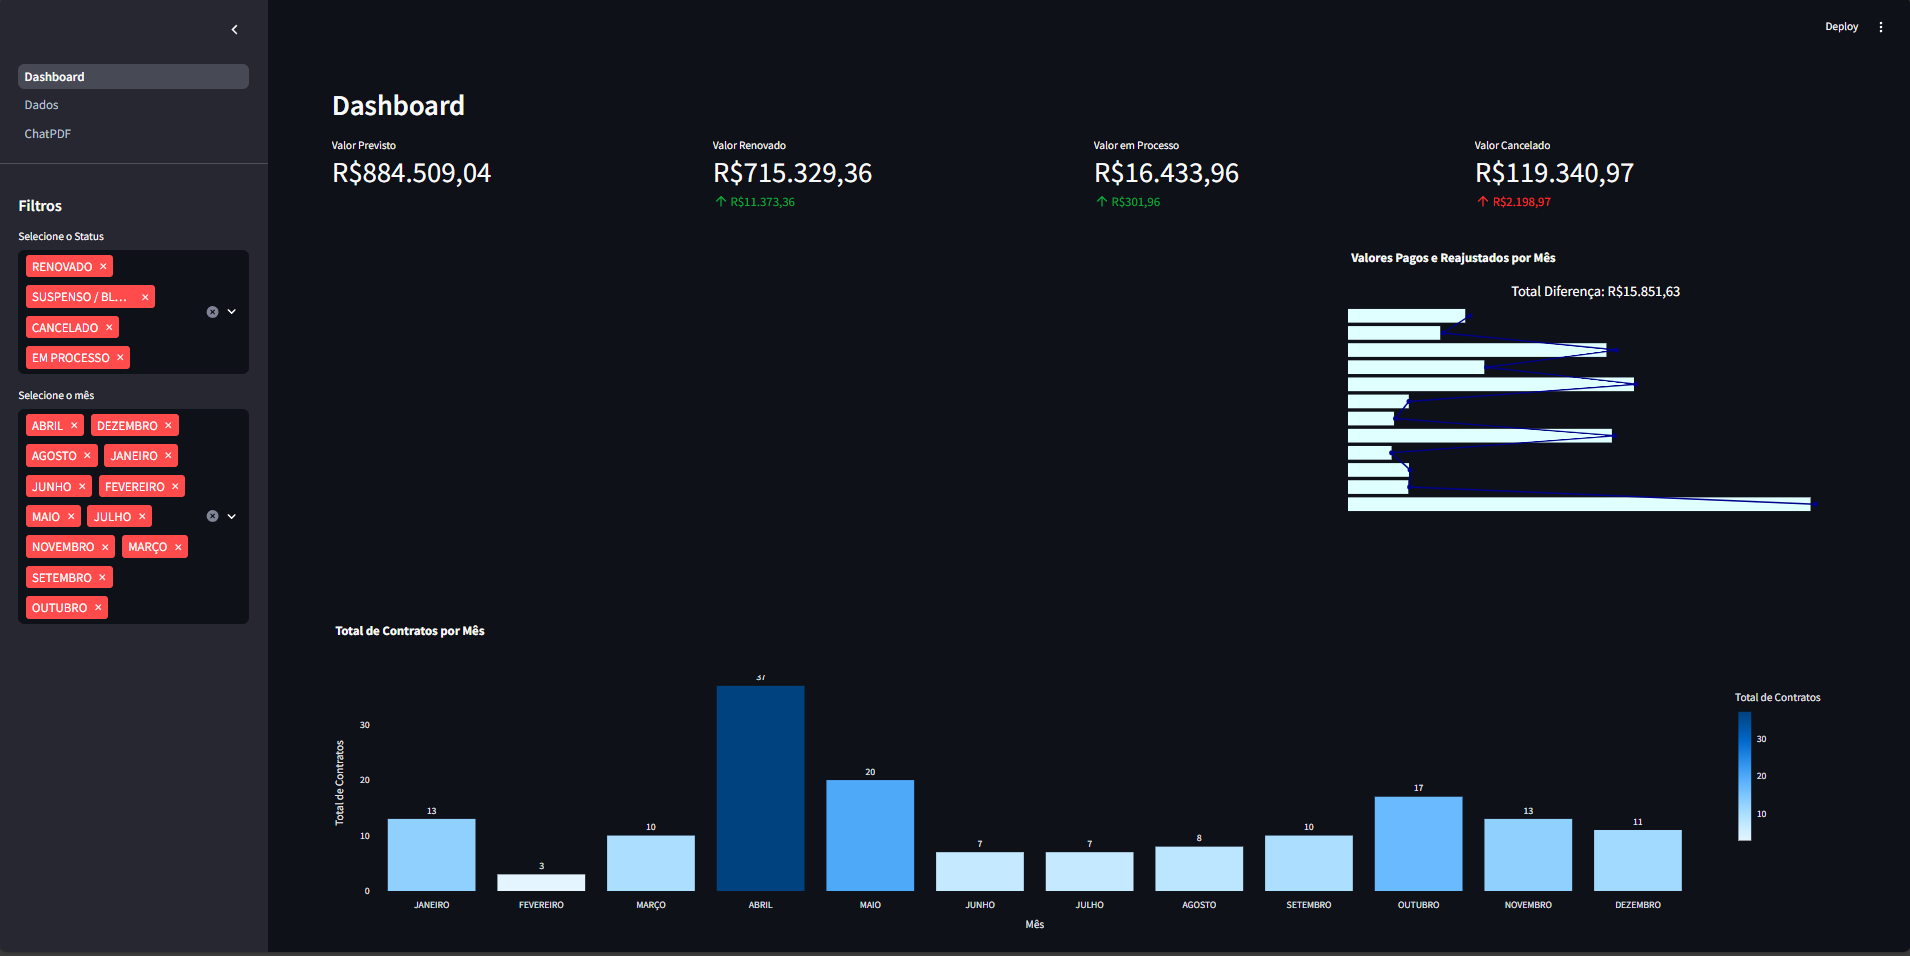
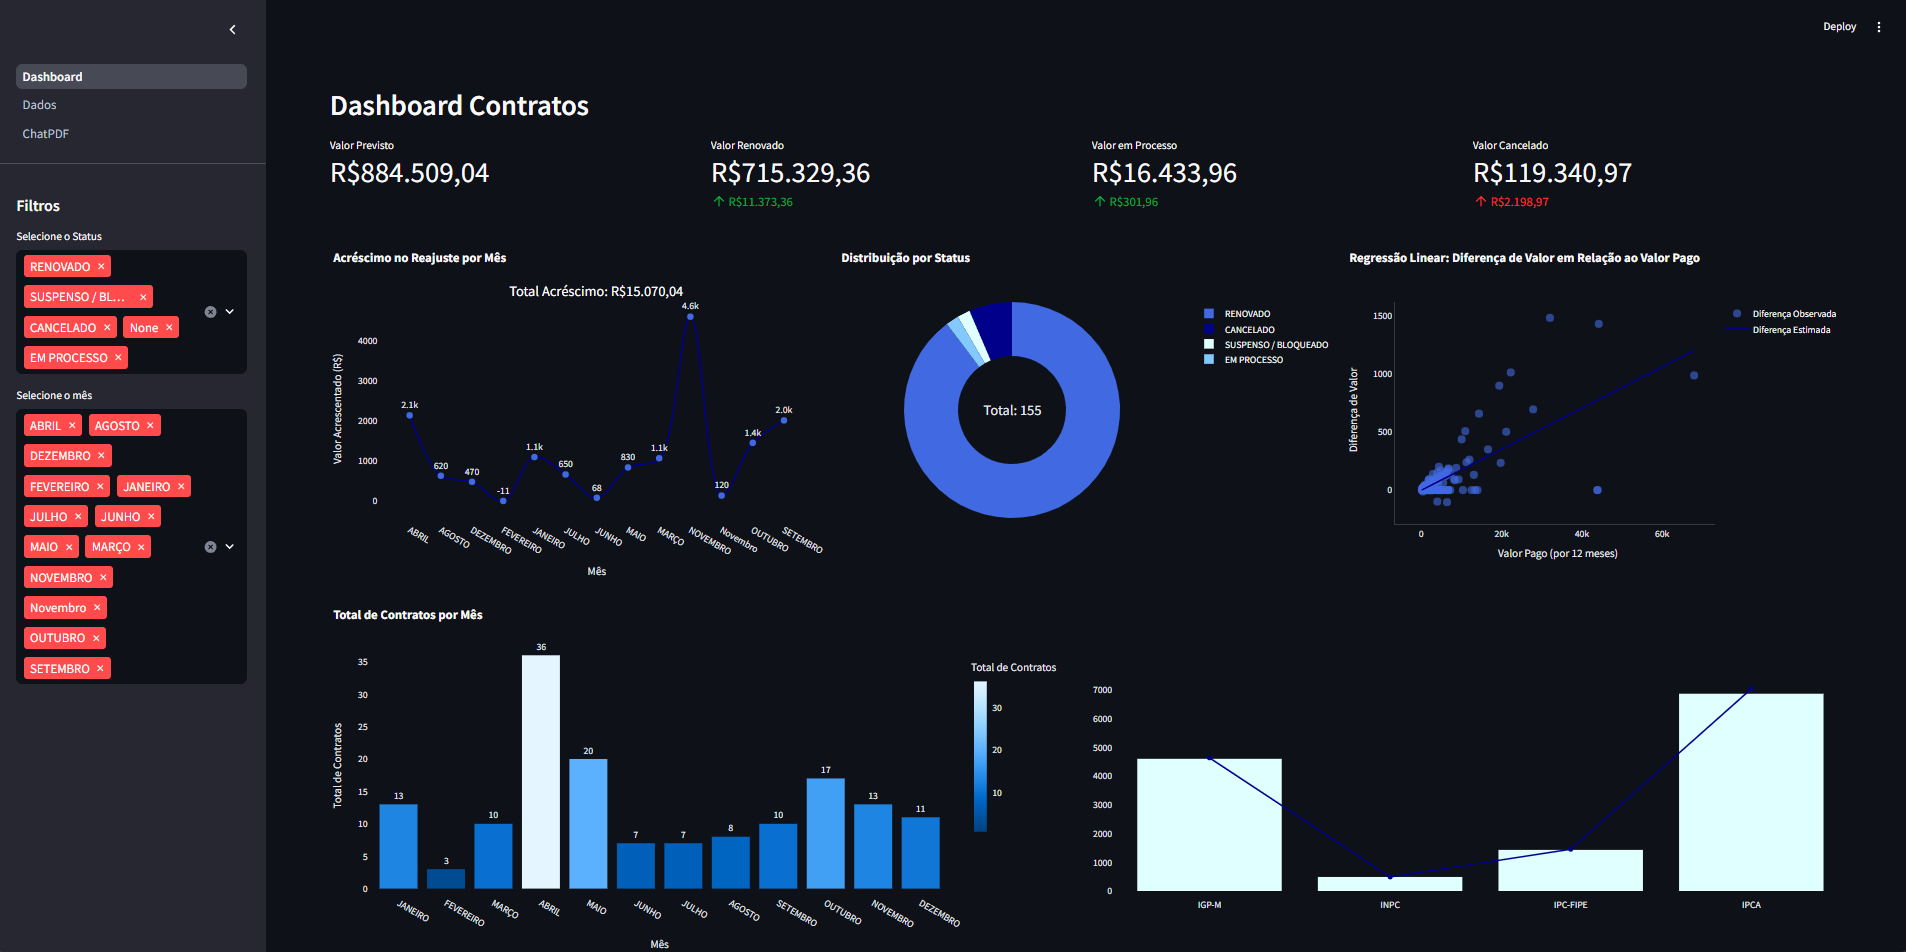
tela dashboards finalizada

diff --git a/Work-Dash/Dashboard.py b/Work-Dash/Dashboard.py
@@ -2,28 +2,30 @@ import streamlit as st
 import pandas as pd
 import plotly.graph_objects as go
 import plotly.express as px
+from sklearn.linear_model import LinearRegression
+import numpy as np
 
 st.set_page_config(page_title="Gestão de Contratos", layout="wide")
 
 @st.cache_data
 def load_data():
-    df = pd.read_excel("planilhas\dados_estruturados.xlsx")
+    df = pd.read_excel("planilhas/dados_estruturados.xlsx")
     return df
 
 df = load_data()
 
 def process_data(df):
     grouped_df = df.groupby('CONTRATO Nº').agg({
-        'EMPRESA': 'first',  
-        'SISTEMA': 'first',  
-        'MÊS': 'first',  
+        'EMPRESA': 'first',
+        'SISTEMA': 'first',
+        'MÊS': 'first',
         'ÍNDICE': 'first',
-        'VALOR PAGO\n(POR 12 MESES)': 'sum',  
-        'VALOR REAJUSTADO\n(POR 12 MESES)': 'sum',  
-        'PEDIDO/ORDEM DE COMPRAS': 'first',  
-        'STATUS / AÇÃO': 'first',  
-        'DATA DA AÇÃO': 'first',  
-        'DIFERENÇA DE VALOR DE CONTRATO': 'sum' 
+        'VALOR PAGO\n(POR 12 MESES)': 'sum',
+        'VALOR REAJUSTADO\n(POR 12 MESES)': 'sum',
+        'PEDIDO/ORDEM DE COMPRAS': 'first',
+        'STATUS / AÇÃO': 'first',
+        'DATA DA AÇÃO': 'first',
+        'DIFERENÇA DE VALOR DE CONTRATO': 'sum'
     }).reset_index()
 
     value_columns = [
@@ -40,7 +42,7 @@ def process_data(df):
 grouped_df = process_data(df)
 
 #Dashboard
-st.header("Dashboard")
+st.header("Dashboard Contratos")
 
 # Função para formatar valores no formato brasileiro
 def format_currency(value):
@@ -78,8 +80,8 @@ with col3:
 
 with col4:
     st.metric(
-        label="Valor Cancelado", 
-        value=format_currency(valor_cancelado), 
+        label="Valor Cancelado",
+        value=format_currency(valor_cancelado),
         delta=format_currency(diferenca_cancelado),
         delta_color="inverse"
     )
@@ -89,116 +91,200 @@ with st.sidebar:
     st.header("Filtros")
     
     status = grouped_df['STATUS / AÇÃO'].unique()
-    selected_status = st.multiselect("Selecione o Status", options=status, default=status)  
+    selected_status = st.multiselect("Selecione o Status", options=status, default=status)
     
     meses = sorted(grouped_df['MÊS'].unique())
     selected_months = st.multiselect("Selecione o mês", options=meses, default=meses)
 
 filtered_df = grouped_df[
-    (grouped_df['STATUS / AÇÃO'].isin(selected_status)) &  
+    (grouped_df['STATUS / AÇÃO'].isin(selected_status)) &
     (grouped_df['MÊS'].isin(selected_months))
 ]
 
-# Função para gerar gráficos
-def plot_value_comparison(df):
-    monthly_summary = df.groupby('MÊS').agg({
-        'VALOR PAGO\n(POR 12 MESES)': 'sum',
-        'VALOR REAJUSTADO\n(POR 12 MESES)': 'sum',
-        'DIFERENÇA DE VALOR DE CONTRATO': 'sum'
-    }).reset_index()
+def plot_value_acrescentado(df):
+    # Calculando a diferença (acréscimo no reajuste)
+    df['ACRESCIMO_REAJUSTE'] = df['VALOR REAJUSTADO\n(POR 12 MESES)'] - df['VALOR PAGO\n(POR 12 MESES)']
+    
+    # Agrupando por MÊS para calcular a soma do acréscimo por mês
+    monthly_acrescimento = df.groupby('MÊS').agg({'ACRESCIMO_REAJUSTE': 'sum'}).reset_index()
 
+    # Criando o gráfico de linha suave
     fig = go.Figure()
 
-    # Adicionando barras para VALOR PAGO
-    fig.add_trace(go.Bar(
-        y=monthly_summary['MÊS'],
-        x=monthly_summary['VALOR PAGO\n(POR 12 MESES)'],
-        name='Valor Pago',
-        marker_color='lightcyan',
-        orientation='h'
-    ))
-
-    # Adicionando linha para VALOR REAJUSTADO
+    # Adicionando linha suave para o acréscimo
     fig.add_trace(go.Scatter(
-        y=monthly_summary['MÊS'],
-        x=monthly_summary['VALOR REAJUSTADO\n(POR 12 MESES)'],
-        name='Valor Reajustado',
-        mode='lines+markers',
-        line=dict(color='darkblue', width=2),
+        x=monthly_acrescimento['MÊS'],
+        y=monthly_acrescimento['ACRESCIMO_REAJUSTE'],
+        mode='lines+markers+text',
+        line=dict(color='darkblue', width=2, shape='spline'),
+        text=monthly_acrescimento['ACRESCIMO_REAJUSTE'],
+        texttemplate='%{text:.2s}',  # Exibindo os valores em formato compacto (ex: R$ 1,2K)
+        textposition='top center',
+        marker=dict(symbol='circle', size=8, color='royalblue')
     ))
 
-    total_reajustado = monthly_summary['VALOR REAJUSTADO\n(POR 12 MESES)'].sum()
-    total_diferenca = monthly_summary['DIFERENÇA DE VALOR DE CONTRATO'].sum()
+    # Total de acrescimento
+    total_acrescimo = monthly_acrescimento['ACRESCIMO_REAJUSTE'].sum()
 
-    # Adicionando anotação para mostrar os valores totais no topo do gráfico
+    # Adicionando anotação para mostrar o total de acréscimo
     fig.add_annotation(
-        text=f"Total Diferença: {format_currency(total_diferenca)}",
+        text=f"Total Acréscimo: {format_currency(total_acrescimo)}",
         xref="paper", yref="paper",
         x=0.5, y=1.1, showarrow=False,
         font=dict(size=18, color="white")
     )
 
+    # Ajustando o layout
     fig.update_layout(
-        title='Valores Pagos e Reajustados por Mês',
-        xaxis_title=None,
-        yaxis_title=None,
+        title="Acréscimo no Reajuste por Mês",
+        xaxis_title='Mês',
+        yaxis_title='Valor Acrescentado (R$)',
         xaxis_tickformat='R$,.2f',
-        barmode='group',
         showlegend=False,
-        xaxis=dict(showline=False, showgrid=False, zeroline=False, visible=False),
-        yaxis=dict(showline=False, showgrid=False, zeroline=False, visible=False)
+        plot_bgcolor='rgba(0,0,0,0)',
+        paper_bgcolor='rgba(0,0,0,0)',
+        xaxis=dict(showline=False, showgrid=False, zeroline=False),
+        yaxis=dict(showline=False, showgrid=False, zeroline=False)
+    )
+
+    return fig
+
+# Função para análise do índice de reajuste
+def plot_index_analysis(df):
+    index_summary = df.groupby('ÍNDICE').agg({
+        'VALOR PAGO\n(POR 12 MESES)': 'mean',
+        'VALOR REAJUSTADO\n(POR 12 MESES)': 'mean'
+    }).reset_index()
+
+    fig = go.Figure()
+
+    fig.add_trace(go.Bar(
+        x=index_summary['ÍNDICE'],
+        y=index_summary['VALOR PAGO\n(POR 12 MESES)'],
+        name='Valor Pago',
+        marker_color='lightcyan'
+    ))
+
+    fig.add_trace(go.Scatter(
+        x=index_summary['ÍNDICE'],
+        y=index_summary['VALOR REAJUSTADO\n(POR 12 MESES)'],
+        name='Valor Reajustado',
+        mode='lines+markers',
+        line=dict(color='darkblue', width=2),
+    ))
+
+    fig.update_layout(
+        xaxis=dict(showline=False, showgrid=False, zeroline=False),
+        yaxis=dict(showline=False, showgrid=False, zeroline=False),
+        plot_bgcolor='rgba(0,0,0,0)',
+        paper_bgcolor='rgba(0,0,0,0)',
+        showlegend=False
     )
     
     return fig
 
+
 def plot_contracts_per_month(df):
     contracts_per_month = df.groupby('MÊS').size().reset_index(name='TOTAL DE CONTRATOS')
 
-    months_order = ['JANEIRO', 'FEVEREIRO', 'MARÇO', 'ABRIL', 'MAIO', 'JUNHO', 
+    months_order = ['JANEIRO', 'FEVEREIRO', 'MARÇO', 'ABRIL', 'MAIO', 'JUNHO',
                     'JULHO', 'AGOSTO', 'SETEMBRO', 'OUTUBRO', 'NOVEMBRO', 'DEZEMBRO']
     contracts_per_month['MÊS'] = pd.Categorical(contracts_per_month['MÊS'], categories=months_order, ordered=True)
     contracts_per_month = contracts_per_month.sort_values('MÊS')
 
-    fig = px.bar(contracts_per_month, x='MÊS', y='TOTAL DE CONTRATOS', 
-                 title='Total de Contratos por Mês',
+    fig = px.bar(contracts_per_month, x='MÊS', y='TOTAL DE CONTRATOS',
                  labels={'TOTAL DE CONTRATOS': 'Total de Contratos', 'MÊS': 'Mês'},
                  color='TOTAL DE CONTRATOS',
-                 color_discrete_map={'JANEIRO':'lightcyan',
-                                     'FEVEREIRO':'cyan',
-                                     'MARÇO':'royalblue',
-                                     'ABRIL':'darkblue',
-                                     'MAIO':'lightcyan',
-                                     'JUNHO':'cyan',
-                                     'JULHO':'royalblue',
-                                     'AGOSTO':'darkblue',
-                                     'SETEMBRO':'lightcyan',
-                                     'OUTUBRO':'cyan',
-                                     'NOVEMBRO':'royalblue',
-                                     'DEZEMBRO':'darkblue'})
+                 color_discrete_sequence=['royalblue'])
 
     fig.update_traces(texttemplate='%{y}', textposition='outside')
 
     fig.update_layout(
+        title="Total de Contratos por Mês",
         xaxis=dict(showline=False, showgrid=False, zeroline=False),
-        yaxis=dict(showline=False, showgrid=False, zeroline=False, title='Total de Contratos'),
+        yaxis=dict(showline=False, showgrid=False, zeroline=False),
         plot_bgcolor='rgba(0,0,0,0)',
         paper_bgcolor='rgba(0,0,0,0)',
+        showlegend=False
     )
 
     return fig
 
-# Criar colunas
+def plot_pie_chart(df):
+    status_counts = df['STATUS / AÇÃO'].value_counts().reset_index()
+    status_counts.columns = ['STATUS / AÇÃO', 'COUNT']
 
-col1, col2, col3 = st.columns(3)
+    fig = go.Figure(go.Pie(
+        labels=status_counts['STATUS / AÇÃO'],
+        values=status_counts['COUNT'],
+        hole=0.5,
+        marker=dict(colors=['royalblue', 'darkblue', 'lightcyan']),
+        textinfo='none'
+    ))
+
+    fig.update_layout(
+        title="Distribuição por Status",
+        annotations=[dict(text=f'Total: {status_counts["COUNT"].sum()}', x=0.5, y=0.5, font_size=18, showarrow=False)]
+    )
+
+    return fig
+
+# Função para plotar gráfico de dispersão com linha de regressão
+def plot_regression_chart(df):
+    df['DIFERENÇA'] = df['VALOR REAJUSTADO\n(POR 12 MESES)'] - df['VALOR PAGO\n(POR 12 MESES)']
+
+    X = df[['VALOR PAGO\n(POR 12 MESES)']]
+    y = df['DIFERENÇA']
+
+    reg = LinearRegression()
+    reg.fit(X, y)
+
+    df['PREDICTED_DIFERENÇA'] = reg.predict(X)
+
+    fig = go.Figure()
+
+    fig.add_trace(go.Scatter(
+        x=df['VALOR PAGO\n(POR 12 MESES)'],
+        y=df['DIFERENÇA'],
+        mode='markers',
+        name='Diferença Observada',
+        marker=dict(color='royalblue', size=10, opacity=0.6),
+        text=[f"Contrato: {row['CONTRATO Nº']}, Empresa: {row['EMPRESA']}" for idx, row in df.iterrows()]
+    ))
+
+    fig.add_trace(go.Scatter(
+        x=df['VALOR PAGO\n(POR 12 MESES)'],
+        y=df['PREDICTED_DIFERENÇA'],
+        mode='lines',
+        name='Diferença Estimada',
+        line=dict(color='darkblue', width=2)
+    ))
+
+    fig.update_layout(
+        title="Regressão Linear: Diferença de Valor em Relação ao Valor Pago",
+        xaxis_title="Valor Pago (por 12 meses)",
+        yaxis_title="Diferença de Valor",
+        xaxis=dict(showline=True, showgrid=False, zeroline=False),
+        yaxis=dict(showline=True, showgrid=False, zeroline=False),
+        plot_bgcolor='rgba(0,0,0,0)',
+        paper_bgcolor='rgba(0,0,0,0)'
+    )
+
+    return fig
+
+# Gráficos no layout principal
+col1, col2, col3= st.columns(3)
 
 with col1:
-    st.write("")  # Coluna vazia, se você quiser adicionar algo mais tarde.
-
+    st.plotly_chart(plot_value_acrescentado(filtered_df), use_container_width=True)
 with col2:
-    st.write("")  # Coluna vazia, se você quiser adicionar algo mais tarde.
-
+    st.plotly_chart(plot_pie_chart(filtered_df), use_container_width=True)
 with col3:
-    st.plotly_chart(plot_value_comparison(filtered_df), use_container_width=True)  # Gráfico que ocupa 1/3 da largura
+    st.plotly_chart(plot_regression_chart(filtered_df), use_container_width=True)
 
-# Gráfico que ocupa todo o espaço
-st.plotly_chart(plot_contracts_per_month(filtered_df), use_container_width=True)
+col4, col5 = st.columns(2)
+
+with col4:
+    st.plotly_chart(plot_contracts_per_month(filtered_df), use_container_width=True)
+with col5:
+    st.plotly_chart(plot_index_analysis(filtered_df), use_container_width=True)
